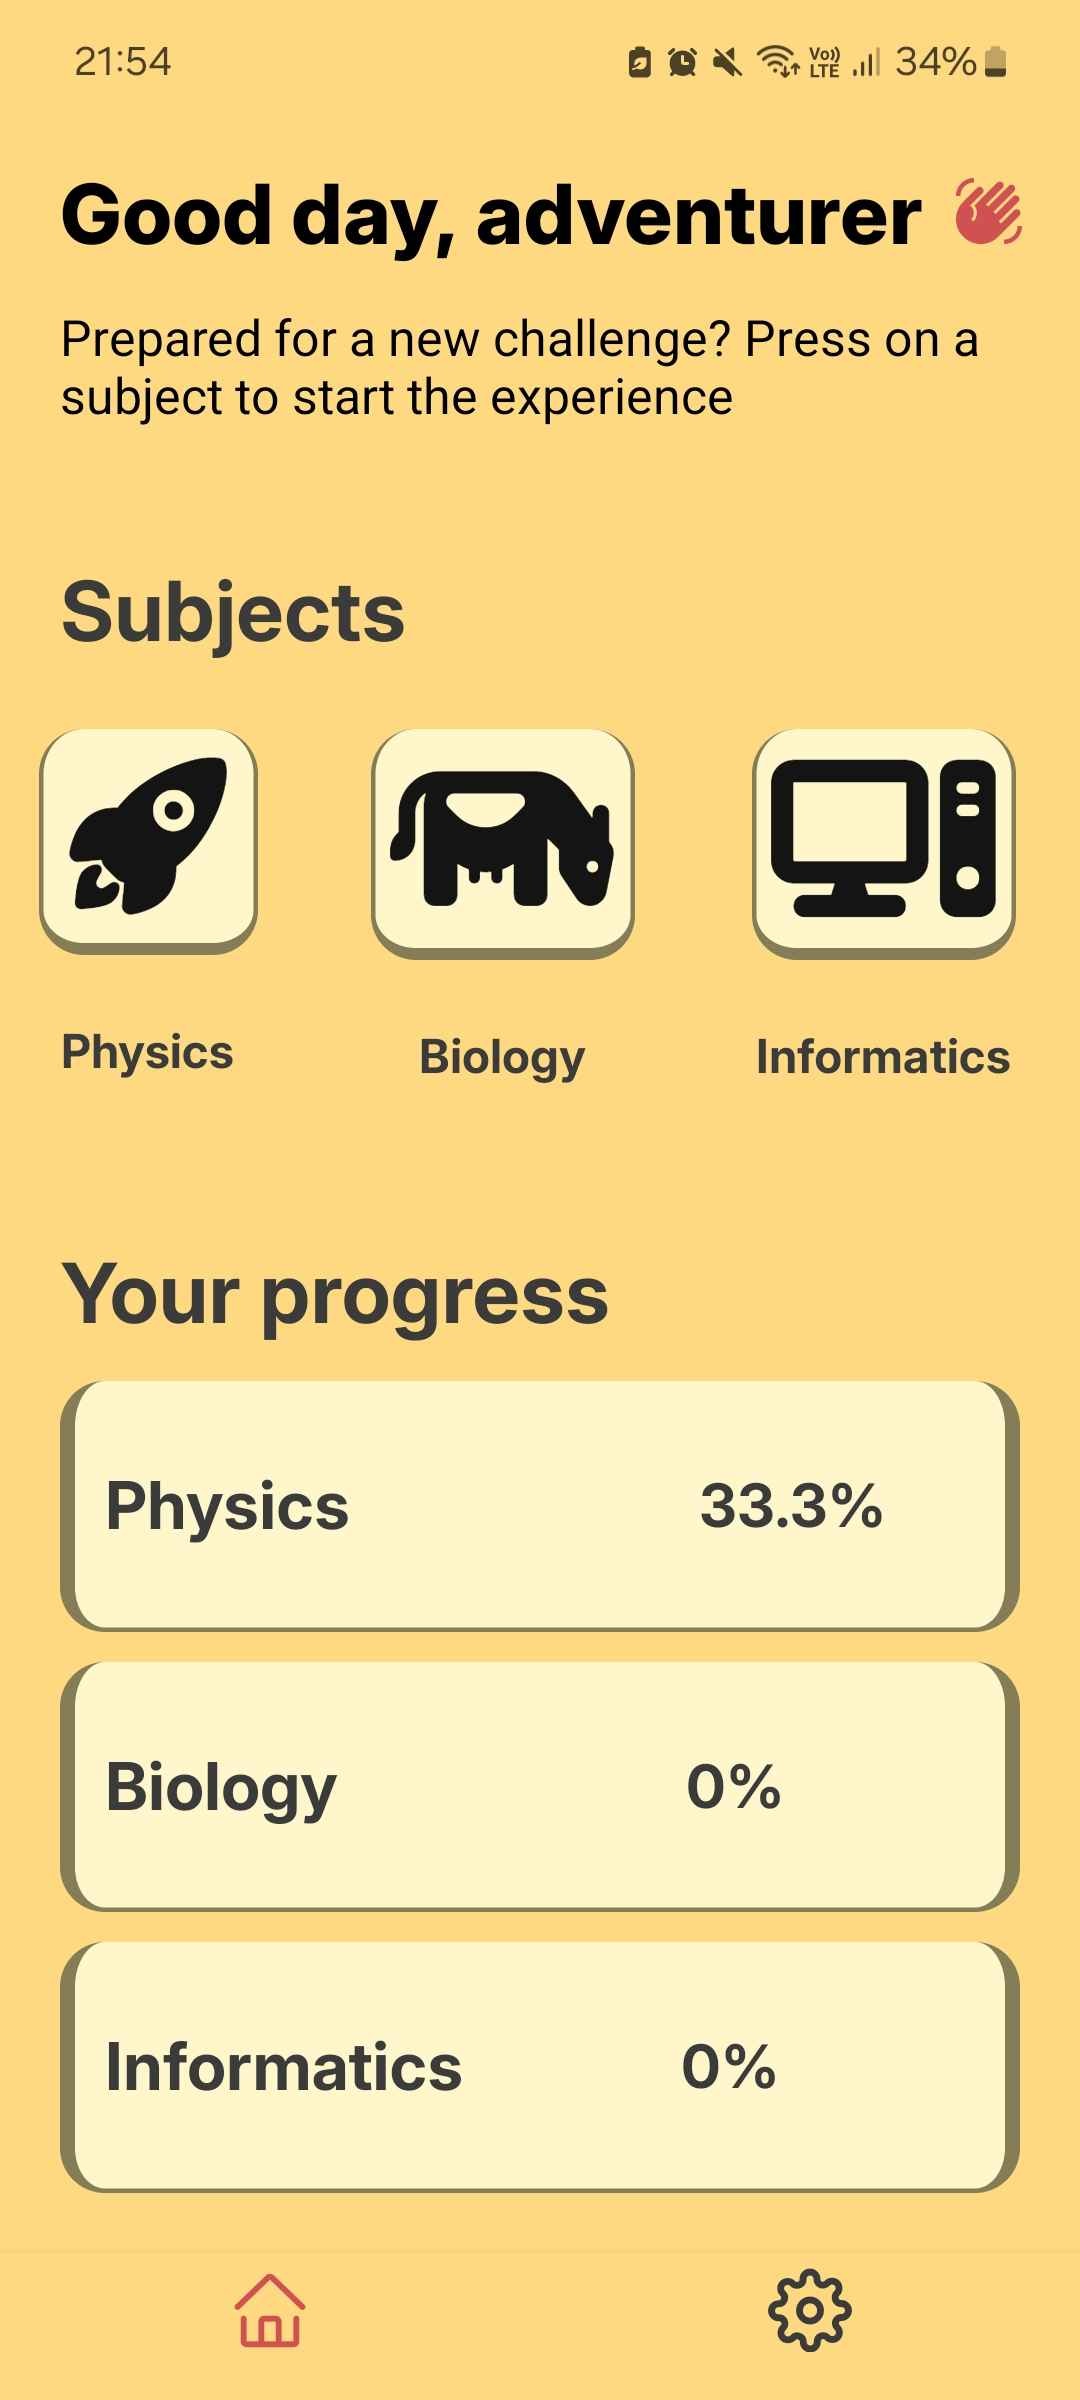
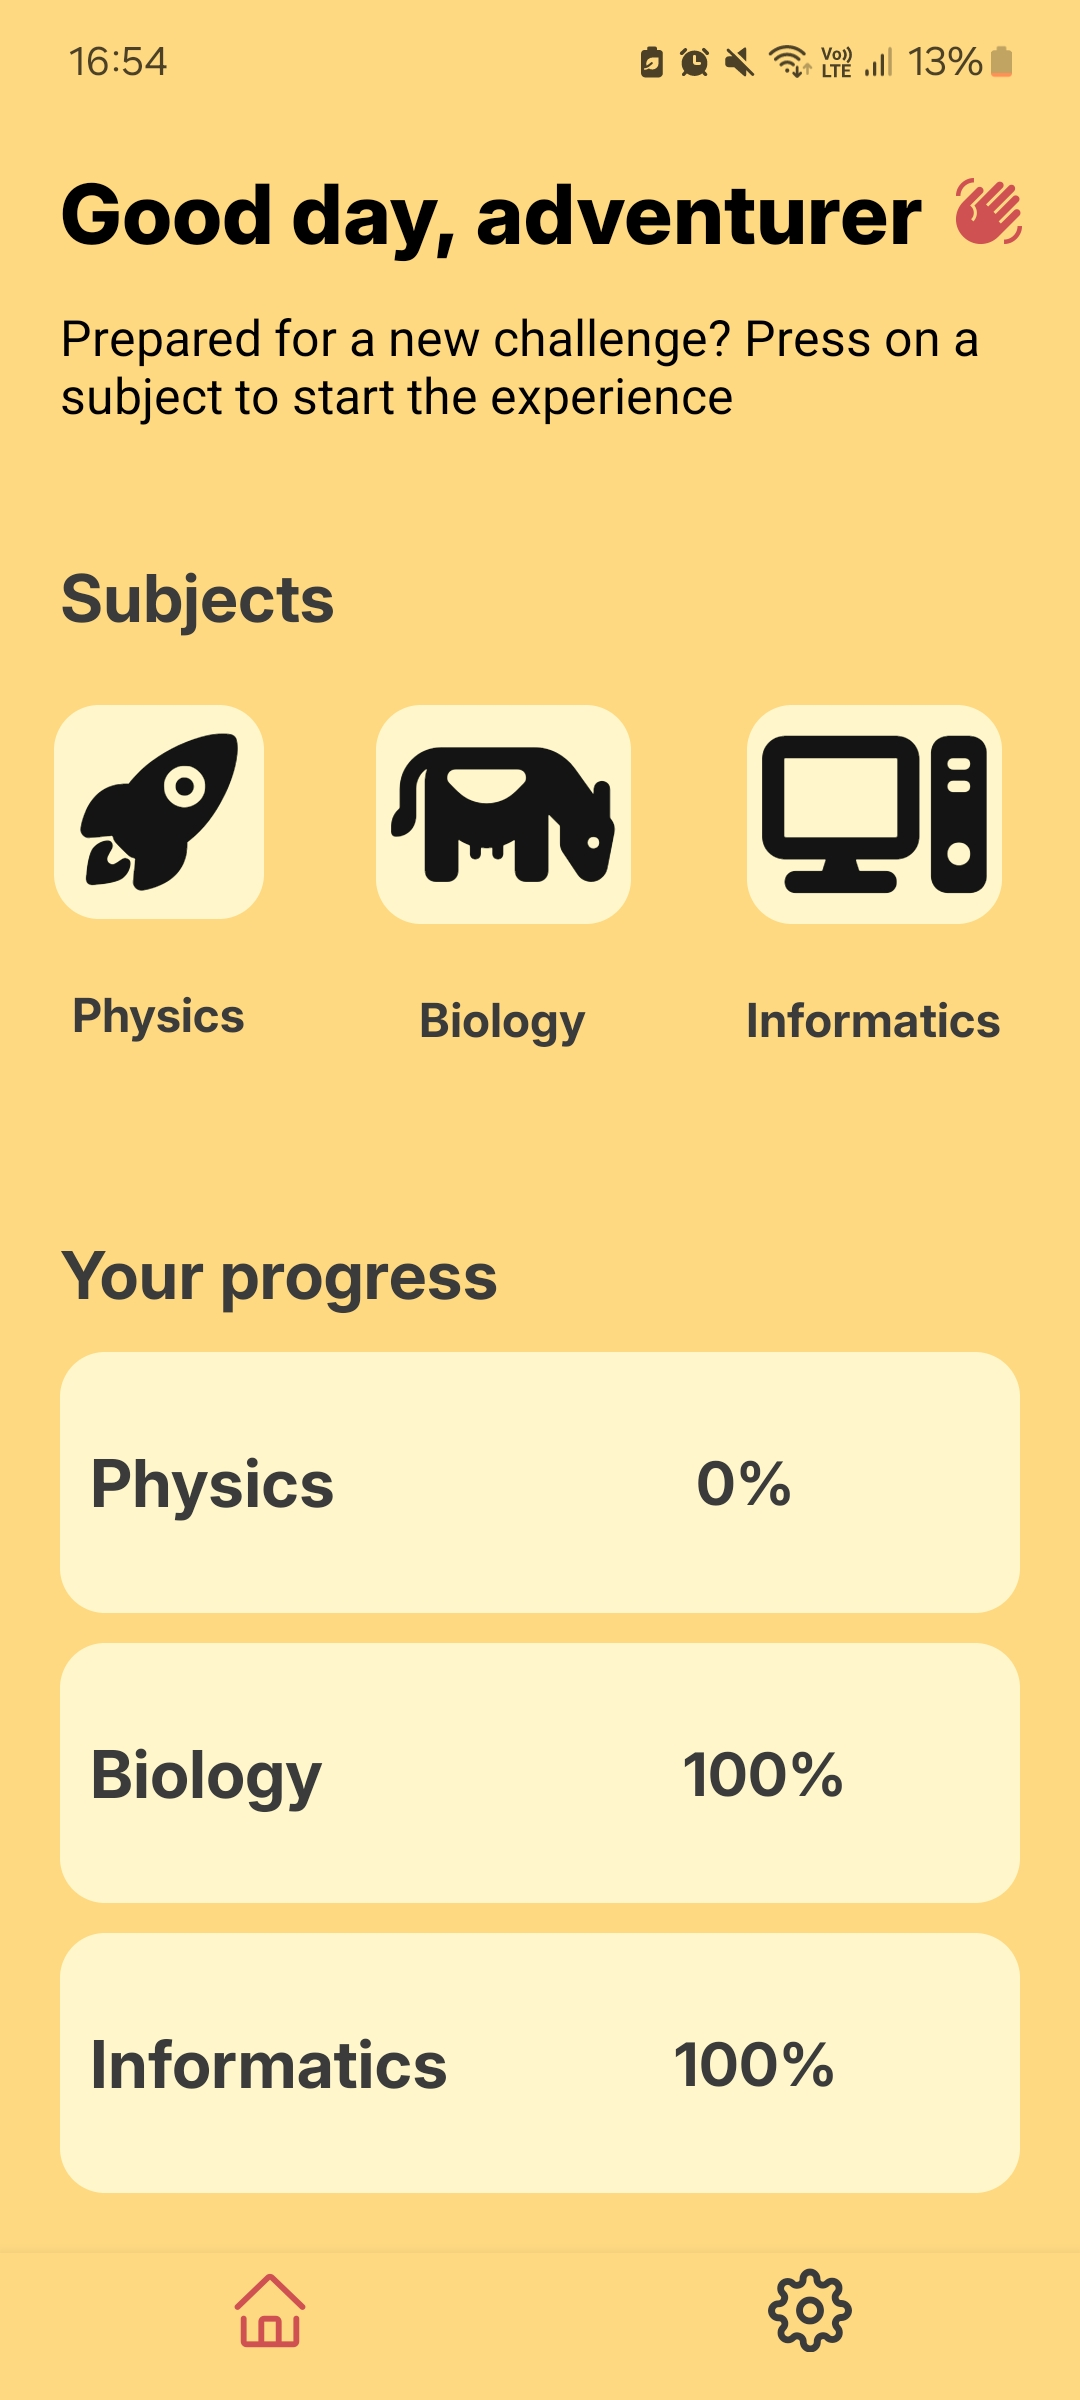
Update app style, update readme

diff --git a/app/dashboard/(tabs)/_layout.tsx b/app/dashboard/(tabs)/_layout.tsx
@@ -8,7 +8,8 @@ export default function TabLayout() {
         <Tabs screenOptions={{
             headerShown: false,
             tabBarActiveTintColor: Colors.accentColor,
-            tabBarInactiveTintColor: Colors.darkGrey
+            tabBarInactiveTintColor: Colors.darkGrey,
+            tabBarStyle: {borderTopWidth: 0, borderTopColor: 'transparent'}
         }}>
             <Tabs.Screen
                 name = "HomeScreen"
@@ -17,7 +18,8 @@ export default function TabLayout() {
                     tabBarStyle: {
                         backgroundColor: Colors.primaryYellow,
                         borderTopWidth: 0,
-                        borderWidth: 0
+                        borderWidth: 0,
+                        borderTopColor: 'transparent',
                     },
                     tabBarIcon: ({ color }) =>
                         <AntDesign size={28} name="home" color={color}/>,
@@ -26,7 +28,11 @@ export default function TabLayout() {
                 name = "SettingsScreen"
                 options = {{
                     tabBarShowLabel: false,
-                    tabBarStyle: {backgroundColor: Colors.primaryYellow, borderWidth: 0},
+                    tabBarStyle: {
+                        backgroundColor: Colors.primaryYellow,
+                        borderWidth: 0,
+                        borderTopWidth: 0,
+                        borderTopColor: 'transparent'},
                     tabBarIcon: ({ color }) =>
                         <Feather size={28} name="settings" color={color}/>,
                 }}/>

diff --git a/styles/screens/HomeScreen.styles.tsx b/styles/screens/HomeScreen.styles.tsx
@@ -10,10 +10,6 @@ export const styles = StyleSheet.create({
     iconContainer: {
         padding: 5,
         backgroundColor: Colors.lightYellowContrast,
-        borderLeftWidth: 1.5,
-        borderRightWidth: 1.5,
-        borderBottomWidth: 4,
-        borderColor: Colors.darkYellowContrast,
         borderRadius: 15,
     },
     contentContainer: {
@@ -37,12 +33,6 @@ export const styles = StyleSheet.create({
         flexDirection: "row",
         backgroundColor: Colors.lightYellowContrast,
         borderRadius: 15,
-        borderBottomWidth: 1.5,
-        borderLeftWidth: 1.5,
-        borderRightWidth: 1.5,
-        borderEndWidth: 5,
-        borderStartWidth: 5,
-        borderColor: Colors.darkYellowContrast
     },
     progressInfoContainer: {
         padding: 10,
@@ -52,12 +42,6 @@ export const styles = StyleSheet.create({
         flexDirection: "row",
         backgroundColor: Colors.lightYellowContrast,
         borderRadius: 15,
-        borderBottomWidth: 1.5,
-        borderLeftWidth: 1.5,
-        borderRightWidth: 1.5,
-        borderEndWidth: 5,
-        borderStartWidth: 5,
-        borderColor: Colors.darkYellowContrast
     },
     progressSubjectTitle: {
         fontSize: 20,
@@ -84,7 +68,7 @@ export const styles = StyleSheet.create({
         color: Colors.dark
     },
     categoriesText: {
-        fontSize: 25,
+        fontSize: 20,
         fontFamily: "Inter-Bold",
         color: Colors.darkGrey,
     }

diff --git a/styles/screens/PhysicsModulesScreen.styles.tsx b/styles/screens/PhysicsModulesScreen.styles.tsx
@@ -23,17 +23,11 @@ export const styles = StyleSheet.create({
         flex: 1,
         gap: 30,
         alignItems: "center",
-
     },
     progressPhysicsContainer: {
         padding: 10,
         backgroundColor: Colors.lightYellowContrast,
         borderRadius: 15,
-        borderBottomWidth: 1.5,
-        borderLeftWidth: 1.5,
-        borderRightWidth: 1.5,
-        borderEndWidth: 5,
-        borderStartWidth: 5,
         borderColor: Colors.darkYellowContrast
     },
     moduleTitle: {

diff --git a/app/dashboard/(stacks)/BiologyModulesScreen.tsx b/app/dashboard/(stacks)/BiologyModulesScreen.tsx
@@ -2,9 +2,9 @@ import KSubjectScreen from "@/components/KSubjectScreen";
 
 const descriptions = {
     "cell": "\n" +
-        "View a detailed 3D model of a cell in augmented reality.\n\n" +
+        "View a detailed 3D model of a cell in Augmented Reality.\n\n" +
         "Explore its structure by looking around and reading informative text about the " +
-        "different components, like the nucleus and mitochondria"
+        "different components, like the nucleus and mitochondria."
 
 }
 

diff --git a/app/dashboard/(stacks)/InformaticsModulesScreen.tsx b/app/dashboard/(stacks)/InformaticsModulesScreen.tsx
@@ -3,7 +3,7 @@ import KSubjectScreen from "@/components/KSubjectScreen";
 const descriptions = {
     "binary": "\n" +
         "Interact with glowing cubes to represent binary digits (0s and 1s).\n\n" +
-        "Toggle the cubes to form binary numbers and instantly see their corresponding decimal value"
+        "Toggle the cubes to form binary numbers and instantly see their corresponding decimal value."
 }
 
 export default function InformaticsModulesScreen() {

diff --git a/app/dashboard/(stacks)/PhysicsModulesScreen.tsx b/app/dashboard/(stacks)/PhysicsModulesScreen.tsx
@@ -3,7 +3,7 @@ import KSubjectScreen from "@/components/KSubjectScreen";
 const descriptions = {
     "gravity": "\n" +
         "Learn the basics of gravity!\n\nExplore how objects fall, " +
-        "understand gravitational force, and try an interactive simulation to see gravity in action",
+        "understand gravitational force, and try an interactive simulation to see gravity in action.",
 }
 
 export default function PhysicsModulesScreen() {

diff --git a/styles/screens/index.styles.tsx b/styles/screens/index.styles.tsx
@@ -18,7 +18,7 @@ export const styles = StyleSheet.create({
         alignItems: "center",
         justifyContent: "center",
         backgroundColor: Colors.lightYellowContrast,
-        borderRadius: 30,
+        borderRadius: 10,
         flexDirection: "row",
     },
 

diff --git a/styles/screens/AuthScreens.styles.tsx b/styles/screens/AuthScreens.styles.tsx
@@ -56,8 +56,9 @@ export const styles = StyleSheet.create({
     },
     firstPartTitle: {
         fontSize: 20,
-        fontFamily: "JetBrains-Regular",
+        fontFamily: "Inter-Regular",
         color: "#404040",
+        marginBottom: -10,
 
     },
     title: {

diff --git a/README.md b/README.md
@@ -5,7 +5,11 @@
 ### Preview
 
 <img src="assets/images/preview-home.jpg" width="300" height = "650"/>
-<img src="assets/images/preview-physicsmodules.jpg" width="300" height = "650"/>
+<img src="assets/images/preview-biologymodules.jpg" width="300" height = "650"/>
+
+
+## Auth system
+<img src="assets/images/preview-login.jpg" width="300" height = "650"/>
 
 ### Commands (in order) to create a basic, functional development build (personal notes):
 
